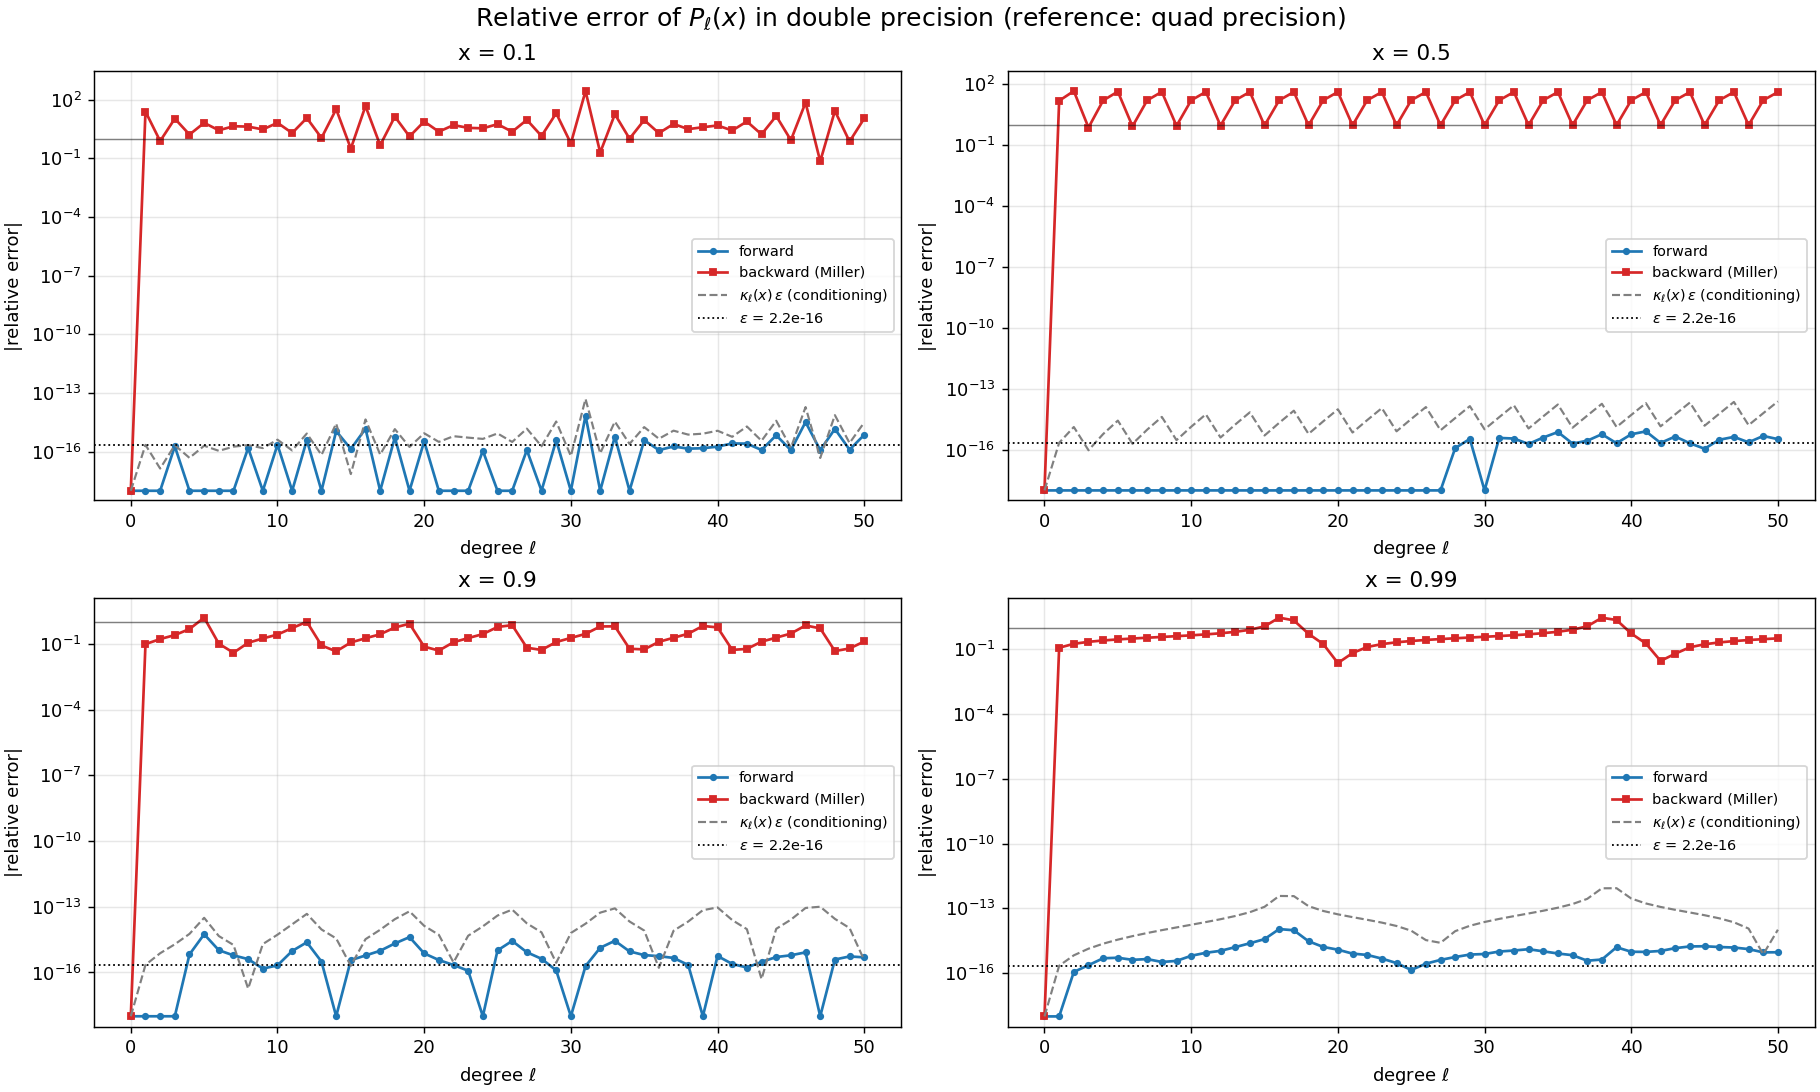
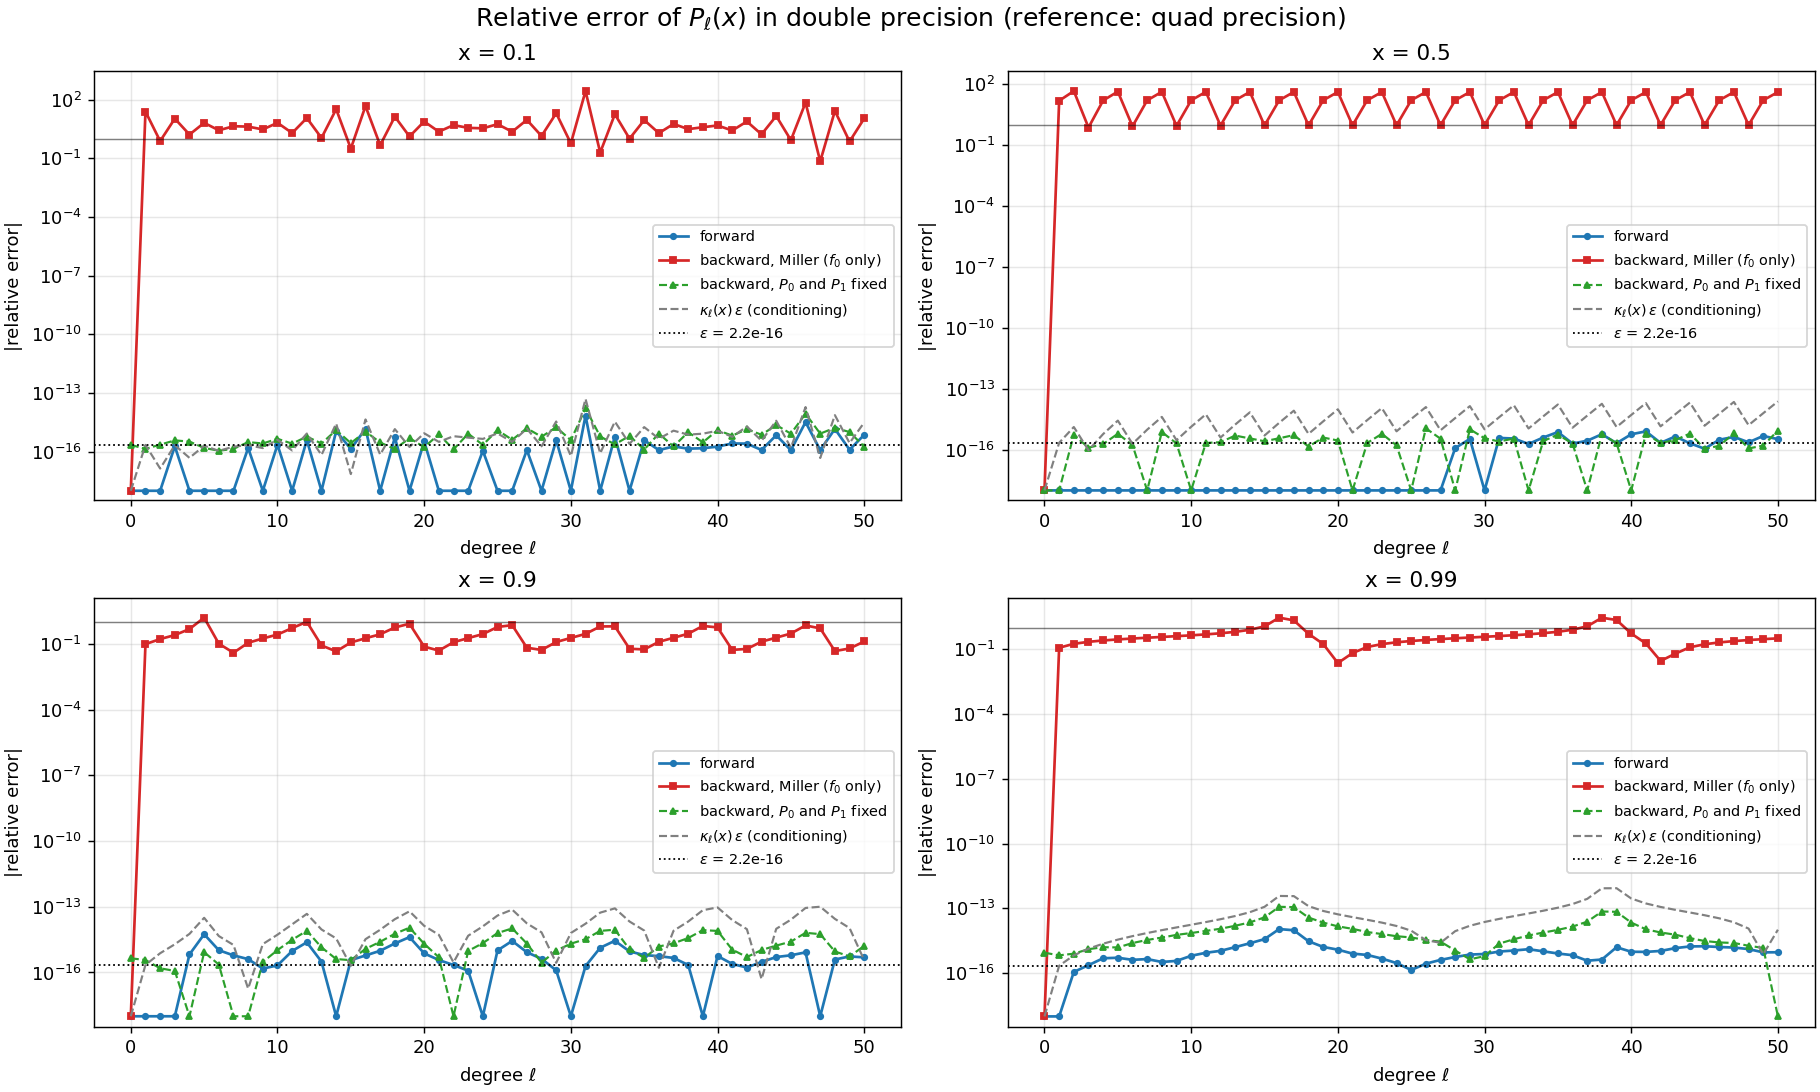
HW5: account for the confirmed error in the original text, add the corrected two-condition backward recurrence; README lists homework 1-7

diff --git a/HomeWork5/legendre_stability/legendre_stability.c b/HomeWork5/legendre_stability/legendre_stability.c
@@ -7,7 +7,10 @@
 //
 // For every x the program compares, for l = 0 ... l_max:
 //   - forward recurrence (l increasing) in double precision
-//   - Miller's backward recurrence (l decreasing, from L > l_max) in double
+//   - Miller's backward recurrence (l decreasing, from L > l_max) in double,
+//     normalized with ONE condition (f_0), as in the HomeWork05 text
+//   - for |x| < 1 only: backward recurrence normalized with TWO conditions
+//     (P_0 = 1 and P_1 = x), as in the professor's corrected example (lecture 8)
 // against a reference computed in quad precision (__float128, 113-bit mantissa).
 //
 //   |x| < 1 : the function studied is P_l(x)   (the homework's case)
@@ -83,6 +86,36 @@ static void miller_double(double x, int lmax, int L, double f0, double *f)
     for (int l = 0; l <= lmax; l++)
         f[l] = c * w[l];
     free(w);
+}
+
+// Backward recurrence with TWO normalization conditions f[0] = f0, f[1] = f1.
+// Every solution of the recurrence is a P_l + b Q_l. Two backward runs from independent
+// starts (f_L = 1, f_{L+1} = 0 and f_L = 0, f_{L+1} = 1) span all solutions; the
+// combination c_a A + c_b B with the right f_0 and f_1 is the wanted one.
+// Works when the two solutions have similar size (|x| < 1); for x > 1 the two runs become
+// proportional (both ~ Q_l) and the 2x2 system is singular.
+static void backward_two_conditions_double(double x, int lmax, int L, double f0, double f1,
+                                           double *f)
+{
+    double *a = calloc((size_t)L + 2, sizeof(*a));
+    double *b = calloc((size_t)L + 2, sizeof(*b));
+    if (a == NULL || b == NULL) {
+        fprintf(stderr, "Error: not enough memory\n");
+        exit(1);
+    }
+    a[L] = 1.0; // start A: f_L = 1, f_{L+1} = 0
+    b[L + 1] = 1.0; // start B: f_L = 0, f_{L+1} = 1
+    for (int l = L; l >= 1; l--) {
+        a[l - 1] = ((2.0 * l + 1.0) * x * a[l] - (l + 1.0) * a[l + 1]) / l;
+        b[l - 1] = ((2.0 * l + 1.0) * x * b[l] - (l + 1.0) * b[l + 1]) / l;
+    }
+    double det = a[0] * b[1] - a[1] * b[0];
+    double ca = (f0 * b[1] - f1 * b[0]) / det;
+    double cb = (f1 * a[0] - f0 * a[1]) / det;
+    for (int l = 0; l <= lmax; l++)
+        f[l] = ca * a[l] + cb * b[l];
+    free(a);
+    free(b);
 }
 
 static void miller_quad(quad x, int lmax, int L, quad f0, quad *f)
@@ -163,10 +196,11 @@ static int study(double x, int lmax, int L)
 
     double *fwd = malloc(n * sizeof(*fwd));
     double *bwd = malloc(n * sizeof(*bwd));
+    double *bw2 = malloc(n * sizeof(*bw2));
     double *gsl = malloc(n * sizeof(*gsl));
     double *cond = malloc(n * sizeof(*cond));
     quad *ref = malloc(n * sizeof(*ref));
-    if (!fwd || !bwd || !gsl || !cond || !ref) {
+    if (!fwd || !bwd || !bw2 || !gsl || !cond || !ref) {
         fprintf(stderr, "Error: not enough memory\n");
         exit(1);
     }
@@ -178,6 +212,7 @@ static int study(double x, int lmax, int L)
         fwd[1] = x;
         forward_double(x, lmax, fwd);
         miller_double(x, lmax, L, 1.0, bwd);
+        backward_two_conditions_double(x, lmax, L, 1.0, x, bw2);
         ref[0] = 1;
         ref[1] = xq;
         forward_quad(xq, lmax, ref);
@@ -190,6 +225,8 @@ static int study(double x, int lmax, int L)
         fwd[1] = x * q0 - 1.0;
         forward_double(x, lmax, fwd);
         miller_double(x, lmax, L, q0, bwd);
+        for (int l = 0; l <= lmax; l++)
+            bw2[l] = NAN; // two conditions: singular for x > 1 (see the function)
         miller_quad(xq, lmax, lmax + REF_EXTRA, q0q, ref);
         for (int l = 0; l <= lmax; l++)
             gsl[l] = gsl_sf_legendre_Ql(l, x);
@@ -216,14 +253,18 @@ static int study(double x, int lmax, int L)
         exit(1);
     }
     fprintf(f, "l,x,forward,backward_miller,reference_quad,gsl,abs_err_forward,rel_err_forward,"
-               "abs_err_backward,rel_err_backward,condition_number\n");
+               "abs_err_backward,rel_err_backward,condition_number,backward_two_conditions,"
+               "abs_err_backward2,rel_err_backward2\n");
 
-    double max_abs_f = 0, max_rel_f = 0, max_abs_b = 0, max_rel_b = 0;
+    double max_abs_f = 0, max_rel_f = 0, max_abs_b = 0, max_rel_b = 0, max_abs_2 = 0;
     int gsl_equals_forward = 1;
     for (int l = 0; l <= lmax; l++) {
         double r = (double)ref[l];
         double ea_f = fabs(fwd[l] - r), er_f = rel_err(fwd[l], r);
         double ea_b = fabs(bwd[l] - r), er_b = rel_err(bwd[l], r);
+        double ea_2 = fabs(bw2[l] - r), er_2 = rel_err(bw2[l], r);
+        if (is_P)
+            max_abs_2 = fmax(max_abs_2, ea_2);
         max_abs_f = fmax(max_abs_f, ea_f);
         max_abs_b = fmax(max_abs_b, ea_b);
         if (!isnan(er_f))
@@ -235,18 +276,25 @@ static int study(double x, int lmax, int L)
 
         char refbuf[48];
         quadmath_snprintf(refbuf, sizeof(refbuf), "%.25Qe", ref[l]);
-        fprintf(f, "%d,%.17g,%.17e,%.17e,%s,%.17e,%.6e,%.6e,%.6e,%.6e,%.6e\n", l, x, fwd[l],
-                bwd[l], refbuf, gsl[l], ea_f, er_f, ea_b, er_b, cond[l]);
+        fprintf(f, "%d,%.17g,%.17e,%.17e,%s,%.17e,%.6e,%.6e,%.6e,%.6e,%.6e,%.17e,%.6e,%.6e\n", l,
+                x, fwd[l], bwd[l], refbuf, gsl[l], ea_f, er_f, ea_b, er_b, cond[l], bw2[l],
+                ea_2, er_2);
     }
     fclose(f);
 
     char label[32];
     snprintf(label, sizeof(label), "%s_l(%g)", name, x);
-    printf("%-10s | %9.1e %9.1e | %9.1e %9.1e | %-3s | %s\n", label, max_abs_f, max_rel_f,
-           max_abs_b, max_rel_b, gsl_equals_forward ? "yes" : "no", path);
+    char two[16];
+    if (is_P)
+        snprintf(two, sizeof(two), "%9.1e", max_abs_2);
+    else
+        snprintf(two, sizeof(two), "%9s", "-");
+    printf("%-10s | %9.1e %9.1e | %9.1e %9.1e | %s | %-3s | %s\n", label, max_abs_f, max_rel_f,
+           max_abs_b, max_rel_b, two, gsl_equals_forward ? "yes" : "no", path);
 
     free(fwd);
     free(bwd);
+    free(bw2);
     free(gsl);
     free(cond);
     free(ref);
@@ -303,16 +351,18 @@ int main(int argc, char *argv[])
 
     printf("Legendre recurrence stability: l = 0 ... %d, Miller start L = %d\n", lmax, L);
     printf("Errors against the quad-precision reference (max over l)\n\n");
-    printf("%-10s | %-19s | %-19s | %-3s |\n", "", "     forward", "  backward (Miller)",
-           "GSL");
-    printf("%-10s | %9s %9s | %9s %9s | %-3s | %s\n", "function", "abs err", "rel err", "abs err",
-           "rel err", "=fw", "CSV file");
-    printf("-----------+---------------------+---------------------+-----+---------\n");
+    printf("%-10s | %-19s | %-19s | %-9s | %-3s |\n", "", "     forward", " backward, f_0 only",
+           " bw P0+P1", "GSL");
+    printf("%-10s | %9s %9s | %9s %9s | %9s | %-3s | %s\n", "function", "abs err", "rel err",
+           "abs err", "rel err", "abs err", "=fw", "CSV file");
+    printf("-----------+---------------------+---------------------+-----------+-----+---------\n");
 
     for (size_t i = 0; i < nx; i++)
         study(xs[i], lmax, L);
 
     printf("\n|x| < 1: P_l(x).  x > 1: Q_l(x).  \"GSL =fw\": GSL gives exactly the forward values.\n");
+    printf("\"backward, f_0 only\" = Miller as in the HomeWork05 text; \"bw P0+P1\" = backward\n"
+           "recurrence normalized with P_0 = 1 and P_1 = x, as in the professor's correction.\n");
     free(user_x);
     return 0;
 }

diff --git a/HomeWork5/legendre_stability/plot_legendre.py b/HomeWork5/legendre_stability/plot_legendre.py
@@ -24,7 +24,10 @@ EPS = 2.220446049250313e-16  # double precision machine epsilon
 FLOOR = 1e-18                # errors that are exactly 0 are drawn at this level
 
 FORWARD = dict(color="tab:blue", marker="o", markersize=3, linewidth=1.5, label="forward")
-BACKWARD = dict(color="tab:red", marker="s", markersize=3, linewidth=1.5, label="backward (Miller)")
+BACKWARD = dict(color="tab:red", marker="s", markersize=3, linewidth=1.5,
+                label="backward, Miller ($f_0$ only)")
+BACKWARD2 = dict(color="tab:green", marker="^", markersize=3, linewidth=1.2, linestyle="--",
+                 label="backward, $P_0$ and $P_1$ fixed")
 REFERENCE = dict(color="gray", linewidth=5, alpha=0.5, label="reference (quad)")
 
 
@@ -62,6 +65,8 @@ def error_figure(files, function, filename):
         ax.semilogy(d["l"], abs_or_floor(d["rel_err_forward"]), **FORWARD)
         ax.semilogy(d["l"], abs_or_floor(d["rel_err_backward"]), **BACKWARD)
         if function == "P":
+            ax.semilogy(d["l"], abs_or_floor(d["rel_err_backward2"]), **BACKWARD2)
+        if function == "P":
             # Error that rounding x itself would cause: kappa * eps (conditioning, not the algorithm)
             ax.semilogy(d["l"], abs_or_floor([c * EPS for c in d["condition_number"]]),
                         color="gray", linestyle="--", linewidth=1.2,
@@ -89,6 +94,7 @@ def values_figure(files, filename):
             ax.plot(d["l"], d["reference_quad"], **REFERENCE)
             ax.plot(d["l"], d["forward"], **FORWARD)
             ax.plot(d["l"], d["backward_miller"], **BACKWARD)
+            ax.plot(d["l"], d["backward_two_conditions"], **BACKWARD2)
             ax.set_title(f"$P_\\ell(x)$, x = {d['x'][0]:g}")
         else:
             # Q_l decreases by many orders of magnitude: plot |Q_l| on a log scale

diff --git a/HomeWork5/legendre_stability/README.md b/HomeWork5/legendre_stability/README.md
@@ -6,14 +6,27 @@ HomeWork05 asks to compute P<sub>ℓ</sub>(x), ℓ = 0 … 50, with the three-te
 
 and to compare both with high-precision reference values at x = 0.1, 0.5, 0.9, 0.99.
 
-**Short answer: the homework's expectation is the wrong way round for P<sub>ℓ</sub>.** For
-|x| < 1, the *forward* recurrence is accurate to ~10⁻¹⁶, and *Miller's* method gives wrong
-results (errors of order 1). The professor's
-["starting solution"](https://codimd.infn.it/s/ftKB8jdK1) reaches the same conclusion.
+> **Note: the HomeWork05 text contained an error, now confirmed by the professor.**
+> In lecture 8 the professor wrote: *"The text in HW05 is wrong → I mixed up the forward and
+> backward recurrence"*. The professor's
+> ["starting solution"](https://codimd.infn.it/s/ftKB8jdK1) and the corrected example program
+> shown in lecture 8 reach the same conclusion as this solution.
 
-The story described in the homework (a dominant and a minimal solution, an unstable forward
-recurrence, Miller as the fix) is real, but it happens for the **other** solution of the same
-recurrence, **Q<sub>ℓ</sub>(x)**, at **x > 1**. The program shows both cases.
+**What the original text claimed, and what is true.**
+- *Claimed:* the forward recurrence becomes unstable near x = 1, and Miller's backward
+  recurrence fixes it.
+- *True for P<sub>ℓ</sub>, |x| < 1:* the **forward** recurrence is accurate to ~10⁻¹⁶. Miller's
+  backward recurrence, normalized only with P<sub>0</sub> = 1, gives wrong results (errors of
+  order 1).
+- *Where the original claim does hold:* the "dominant/minimal solution" story (forward
+  unstable, Miller as the fix) is real, but for the **other** solution of the same recurrence,
+  **Q<sub>ℓ</sub>(x)**, at **x > 1**.
+
+**The corrected version of the backward experiment.** The professor's corrected example
+normalizes the backward recurrence with **two** conditions, P<sub>0</sub> = 1 *and*
+P<sub>1</sub> = x, instead of P<sub>0</sub> = 1 only. With that change, the backward recurrence
+gives accurate P<sub>ℓ</sub> for |x| < 1 (errors ≤ 4·10⁻¹⁵). This solution includes it as a
+third method, and section 6 explains why it works.
 
 | File | Content |
 |---|---|
@@ -44,7 +57,8 @@ The starting values select which solution you get:
 | Method | How |
 |---|---|
 | Forward | Recurrence upwards in `double` |
-| Miller backward | f̃<sub>L+1</sub> = 0, f̃<sub>L</sub> = 1, recurrence downwards in `double`, then rescale so that f<sub>0</sub> = P<sub>0</sub> (or Q<sub>0</sub>) |
+| Miller backward (one condition, as in the original text) | f̃<sub>L+1</sub> = 0, f̃<sub>L</sub> = 1, recurrence downwards in `double`, then rescale so that f<sub>0</sub> = P<sub>0</sub> (or Q<sub>0</sub>) |
+| Backward with two conditions (P<sub>ℓ</sub> only, as in the professor's correction) | Two backward runs from independent starts (f̃<sub>L</sub> = 1, f̃<sub>L+1</sub> = 0 and f̃<sub>L</sub> = 0, f̃<sub>L+1</sub> = 1), combined so that P<sub>0</sub> = 1 and P<sub>1</sub> = x |
 | **Reference** | `__float128` (113-bit mantissa, ~34 digits). For P<sub>ℓ</sub>: forward recurrence. For Q<sub>ℓ</sub>: Miller from ℓ<sub>max</sub> + 1000 |
 
 **Checking the references.**
@@ -63,22 +77,23 @@ was the problem with the first version of this exercise.
 
 Largest error over ℓ = 0 … 50:
 
-| Function | Forward: abs | Forward: rel | Miller: abs | Miller: rel |
-|---|---|---|---|---|
-| P<sub>ℓ</sub>(0.1) | 2.8·10⁻¹⁷ | 6.9·10⁻¹⁵ | 2.5 | 2.8·10² |
-| P<sub>ℓ</sub>(0.5) | 5.6·10⁻¹⁷ | 8.1·10⁻¹⁶ | 7.9 | 4.7·10¹ |
-| P<sub>ℓ</sub>(0.9) | 2.5·10⁻¹⁶ | 5.6·10⁻¹⁵ | 0.12 | 1.6 |
-| P<sub>ℓ</sub>(0.99) | 4.7·10⁻¹⁶ | 1.1·10⁻¹⁴ | 0.25 | 2.9 |
-| Q<sub>ℓ</sub>(1.1) | 8.5·10⁻¹⁰ | **17** | 2.8·10⁻¹⁷ | 1.1·10⁻¹² |
-| Q<sub>ℓ</sub>(1.5) | 6.3·10³ | **4.9·10²⁵** | 1.1·10⁻¹⁶ | 1.5·10⁻¹⁵ |
-| Q<sub>ℓ</sub>(3) | 4.7·10²⁰ | **2.1·10⁶⁰** | 2.7·10⁻²⁰ | 4.6·10⁻¹⁶ |
+| Function | Forward: abs | Forward: rel | Miller (one condition): abs | Miller: rel | Backward, P<sub>0</sub> + P<sub>1</sub>: abs |
+|---|---|---|---|---|---|
+| P<sub>ℓ</sub>(0.1) | 2.8·10⁻¹⁷ | 6.9·10⁻¹⁵ | 2.5 | 2.8·10² | 2.2·10⁻¹⁶ |
+| P<sub>ℓ</sub>(0.5) | 5.6·10⁻¹⁷ | 8.1·10⁻¹⁶ | 7.9 | 4.7·10¹ | 8.3·10⁻¹⁷ |
+| P<sub>ℓ</sub>(0.9) | 2.5·10⁻¹⁶ | 5.6·10⁻¹⁵ | 0.12 | 1.6 | 5.0·10⁻¹⁶ |
+| P<sub>ℓ</sub>(0.99) | 4.7·10⁻¹⁶ | 1.1·10⁻¹⁴ | 0.25 | 2.9 | 4.4·10⁻¹⁵ |
+| Q<sub>ℓ</sub>(1.1) | 8.5·10⁻¹⁰ | **17** | 2.8·10⁻¹⁷ | 1.1·10⁻¹² | – |
+| Q<sub>ℓ</sub>(1.5) | 6.3·10³ | **4.9·10²⁵** | 1.1·10⁻¹⁶ | 1.5·10⁻¹⁵ | – |
+| Q<sub>ℓ</sub>(3) | 4.7·10²⁰ | **2.1·10⁶⁰** | 2.7·10⁻²⁰ | 4.6·10⁻¹⁶ | – |
 
-| Claim in the homework | Result |
+| Claim in the original HomeWork05 text (acknowledged as wrong by the professor) | Result |
 |---|---|
 | Forward accurate far from 1 (x = 0.1) | $\color{green}{\textbf{O}}$ yes, ~10⁻¹⁶ |
 | Forward unstable close to 1 (x = 0.99), errors of order 1 | $\color{red}{\textbf{X}}$ no: absolute error ≤ 5·10⁻¹⁶. Still accurate at ℓ = 1000 (`./legendre_stability 1000 1500 0.99`: 1.7·10⁻¹⁵) |
 | Backward (Miller) accurate for all ℓ and x | $\color{red}{\textbf{X}}$ no: errors of order 1 for P<sub>ℓ</sub> at every x < 1 |
 | *(same claims for Q<sub>ℓ</sub>, x > 1)* | $\color{green}{\textbf{O}}$ forward blows up, Miller accurate |
+| *(corrected version)* Backward with P<sub>0</sub> and P<sub>1</sub> fixed, \|x\| < 1 | $\color{green}{\textbf{O}}$ accurate, errors ≤ 4·10⁻¹⁵, at the conditioning level like the forward recurrence |
 
 **Why are the relative errors of P<sub>ℓ</sub> sometimes 10⁻¹⁴ when the absolute ones are
 10⁻¹⁶?** Near a zero of P<sub>ℓ</sub>(x), dividing by a tiny P<sub>ℓ</sub> inflates the
@@ -99,14 +114,18 @@ is a known constant computed to full precision.
 
 - Building Y<sub>ℓ0</sub> with the **forward** recurrence, as is usually done, is safe: relative
   error ~10⁻¹⁶ away from the zeros.
-- Building it with **Miller's** recurrence would give completely wrong spherical harmonics:
-  relative errors of 1–100 for ℓ ≥ 1.
+- Building it with **Miller's** recurrence, normalized with P<sub>0</sub> only as in the
+  original text, would give completely wrong spherical harmonics: relative errors of 1–100 for
+  ℓ ≥ 1.
+- The backward recurrence with **both** P<sub>0</sub> and P<sub>1</sub> fixed would also give
+  correct Y<sub>ℓ0</sub>, but it costs two runs instead of one and has no advantage over the
+  forward recurrence here.
 
 ## 5. Relative error vs ℓ
 
 | Figure | Content |
 |---|---|
-| `plots/legendre_P_relative_error.png` | \|relative error\| of P<sub>ℓ</sub>(x), one panel per x: forward (blue) at the 10⁻¹⁶ level, Miller (red) at 10⁻¹–10² |
+| `plots/legendre_P_relative_error.png` | \|relative error\| of P<sub>ℓ</sub>(x), one panel per x: forward (blue) and backward with P<sub>0</sub>, P<sub>1</sub> fixed (green) at the 10⁻¹⁶ level; Miller with P<sub>0</sub> only (red) at 10⁻¹–10² |
 | `plots/legendre_Q_relative_error.png` | \|relative error\| of Q<sub>ℓ</sub>(x): forward grows as a straight line on the log scale (exponentially), Miller stays at 10⁻¹⁵ |
 | `plots/legendre_values.png` | The values themselves: Miller's P<sub>ℓ</sub> visibly wrong, forward Q<sub>ℓ</sub> leaving the reference and growing |
 
@@ -153,6 +172,20 @@ where λ = x + √(x²−1) > 1.
   therefore does not converge to P<sub>ℓ</sub>, however large L is. For the same reason, the
   forward recurrence has nothing to amplify, so it is **stable** for P<sub>ℓ</sub>: the error
   grows only slowly, roughly ∝ ℓ·ε.
+- **Why two conditions fix it (the professor's correction).** Since every solution is
+  a·P<sub>ℓ</sub> + b·Q<sub>ℓ</sub>, *two* conditions determine both constants.
+  - Two backward runs from independent starts give two independent solutions A<sub>ℓ</sub> and
+    B<sub>ℓ</sub>. The combination c<sub>a</sub>A<sub>ℓ</sub> + c<sub>b</sub>B<sub>ℓ</sub> with
+    value 1 at ℓ = 0 and x at ℓ = 1 is exactly P<sub>ℓ</sub>.
+  - For |x| < 1 neither solution dominates, so the backward recurrence itself is as stable as
+    the forward one. Only the normalization was insufficient, and the result is accurate
+    (errors ≤ 4·10⁻¹⁵).
+  - **For x > 1 this fails.** Both backward runs are dominated by Q<sub>ℓ</sub> (which grows going
+    down), so A<sub>ℓ</sub> and B<sub>ℓ</sub> become proportional to all 16 digits. The 2×2
+    system for c<sub>a</sub>, c<sub>b</sub> becomes singular: its determinant is exactly 0 in
+    double precision for x = 1.1 and x = 3, and 10⁻¹⁶ of its typical size (pure rounding noise)
+    for x = 1.5. That's why the professor's example notes
+    that the backward recurrence is ill-conditioned for P<sub>ℓ</sub> outside [−1, 1].
 
 **Conditioning vs stability.**
 - **Conditioning** is a property of the *mathematical problem*: how much P<sub>ℓ</sub>(x)
@@ -167,7 +200,10 @@ where λ = x + √(x²−1) > 1.
     it is **stable**.
   - The forward recurrence for Q<sub>ℓ</sub> at x > 1 is **unstable**, with errors up to 10⁶⁰,
     even though Q<sub>ℓ</sub>(x) is a perfectly well-behaved, smoothly decaying function.
-  - Miller's method is stable for Q<sub>ℓ</sub>, and simply *not applicable* to P<sub>ℓ</sub>.
+  - Miller's method (one condition) is stable for Q<sub>ℓ</sub> at x > 1, and *not applicable*
+    to P<sub>ℓ</sub>.
+  - The backward recurrence with two conditions is accurate for P<sub>ℓ</sub> at |x| < 1, but
+    breaks down for x > 1.
 
   A well-conditioned problem can still be ruined by an unstable algorithm. Which direction is
   stable depends on which solution you want, not on the recurrence formula itself.

diff --git a/HomeWork5/README.md b/HomeWork5/README.md
@@ -3,7 +3,7 @@
 | Folder | Exercise | Main result |
 |---|---|---|
 | [`floating_point_sum/`](floating_point_sum/README.md) | Lecture exercise: sum [1, 10¹⁶, −10¹⁶, −0.5] with a for loop, GSL and Kahan | All three give −0.5 instead of 0.5. Kahan fails because the new term is larger than the running sum; Neumaier's variant and an exact summation give 0.5 |
-| [`legendre_stability/`](legendre_stability/README.md) | HomeWork05: stability of the three-term recurrence for Legendre polynomials (forward vs Miller backward vs high-precision reference) | For P<sub>ℓ</sub>(x), \|x\| < 1, the forward recurrence is stable and Miller fails. The instability described in the homework happens for Q<sub>ℓ</sub>(x), x > 1, where Miller is the fix |
+| [`legendre_stability/`](legendre_stability/README.md) | HomeWork05: stability of the three-term recurrence for Legendre polynomials (forward vs Miller backward vs high-precision reference) | The original text mixed up forward and backward recurrence (confirmed by the professor in lecture 8). For P<sub>ℓ</sub>(x), \|x\| < 1, the forward recurrence is stable; Miller with P<sub>0</sub> only fails, while the corrected backward version with P<sub>0</sub> and P<sub>1</sub> fixed works. The instability described in the text happens for Q<sub>ℓ</sub>(x), x > 1, where Miller is the fix |
 
 Each folder has a `Makefile`: `make` builds the program and prints how to use it, and
 `make help` prints the instructions again.

diff --git a/README.md b/README.md
@@ -6,9 +6,10 @@ My solutions to the homework of the Scientific Computing class.
 
 | Folder | Topic |
 |---|---|
-| HomeWork1 | Guide: Linux VM on CloudVeneto for C development |
-| HomeWork2 | Numerical sum |
-| HomeWork3 | Hardware, data structures, matrix multiplication |
-| HomeWork4 | Sampling, DFT, FFT, Makefiles |
-| HomeWork5 | Pointers, floating point, Legendre polynomial stability |
-| HomeWork6 | Floating point (pt. 2), HDF5 |
+| [HomeWork1](HomeWork1/README.md) | Guide: Linux VM on CloudVeneto for C development |
+| [HomeWork2](HomeWork2/README.md) | Vector sum d = a·x + y, floating-point comparison |
+| [HomeWork3](HomeWork3/README.md) | Matrix multiplication, loop ordering and cache |
+| [HomeWork4](HomeWork4/README.md) | Fourier transform: worksheet, issues found in the tutorial project, sampling/DFT/FFT in C |
+| [HomeWork5](HomeWork5/README.md) | Floating-point summation; stability of the Legendre recurrence (the original text's error, confirmed by the professor, is discussed) |
+| [HomeWork6](HomeWork6/README.md) | Split the work: daxpy in chunks, config file, HDF5 output, tests |
+| [HomeWork7](HomeWork7/README.md) | Random numbers: LCG, law of large numbers, Monte Carlo π, change of variables, empirical CDF, RANDU |
